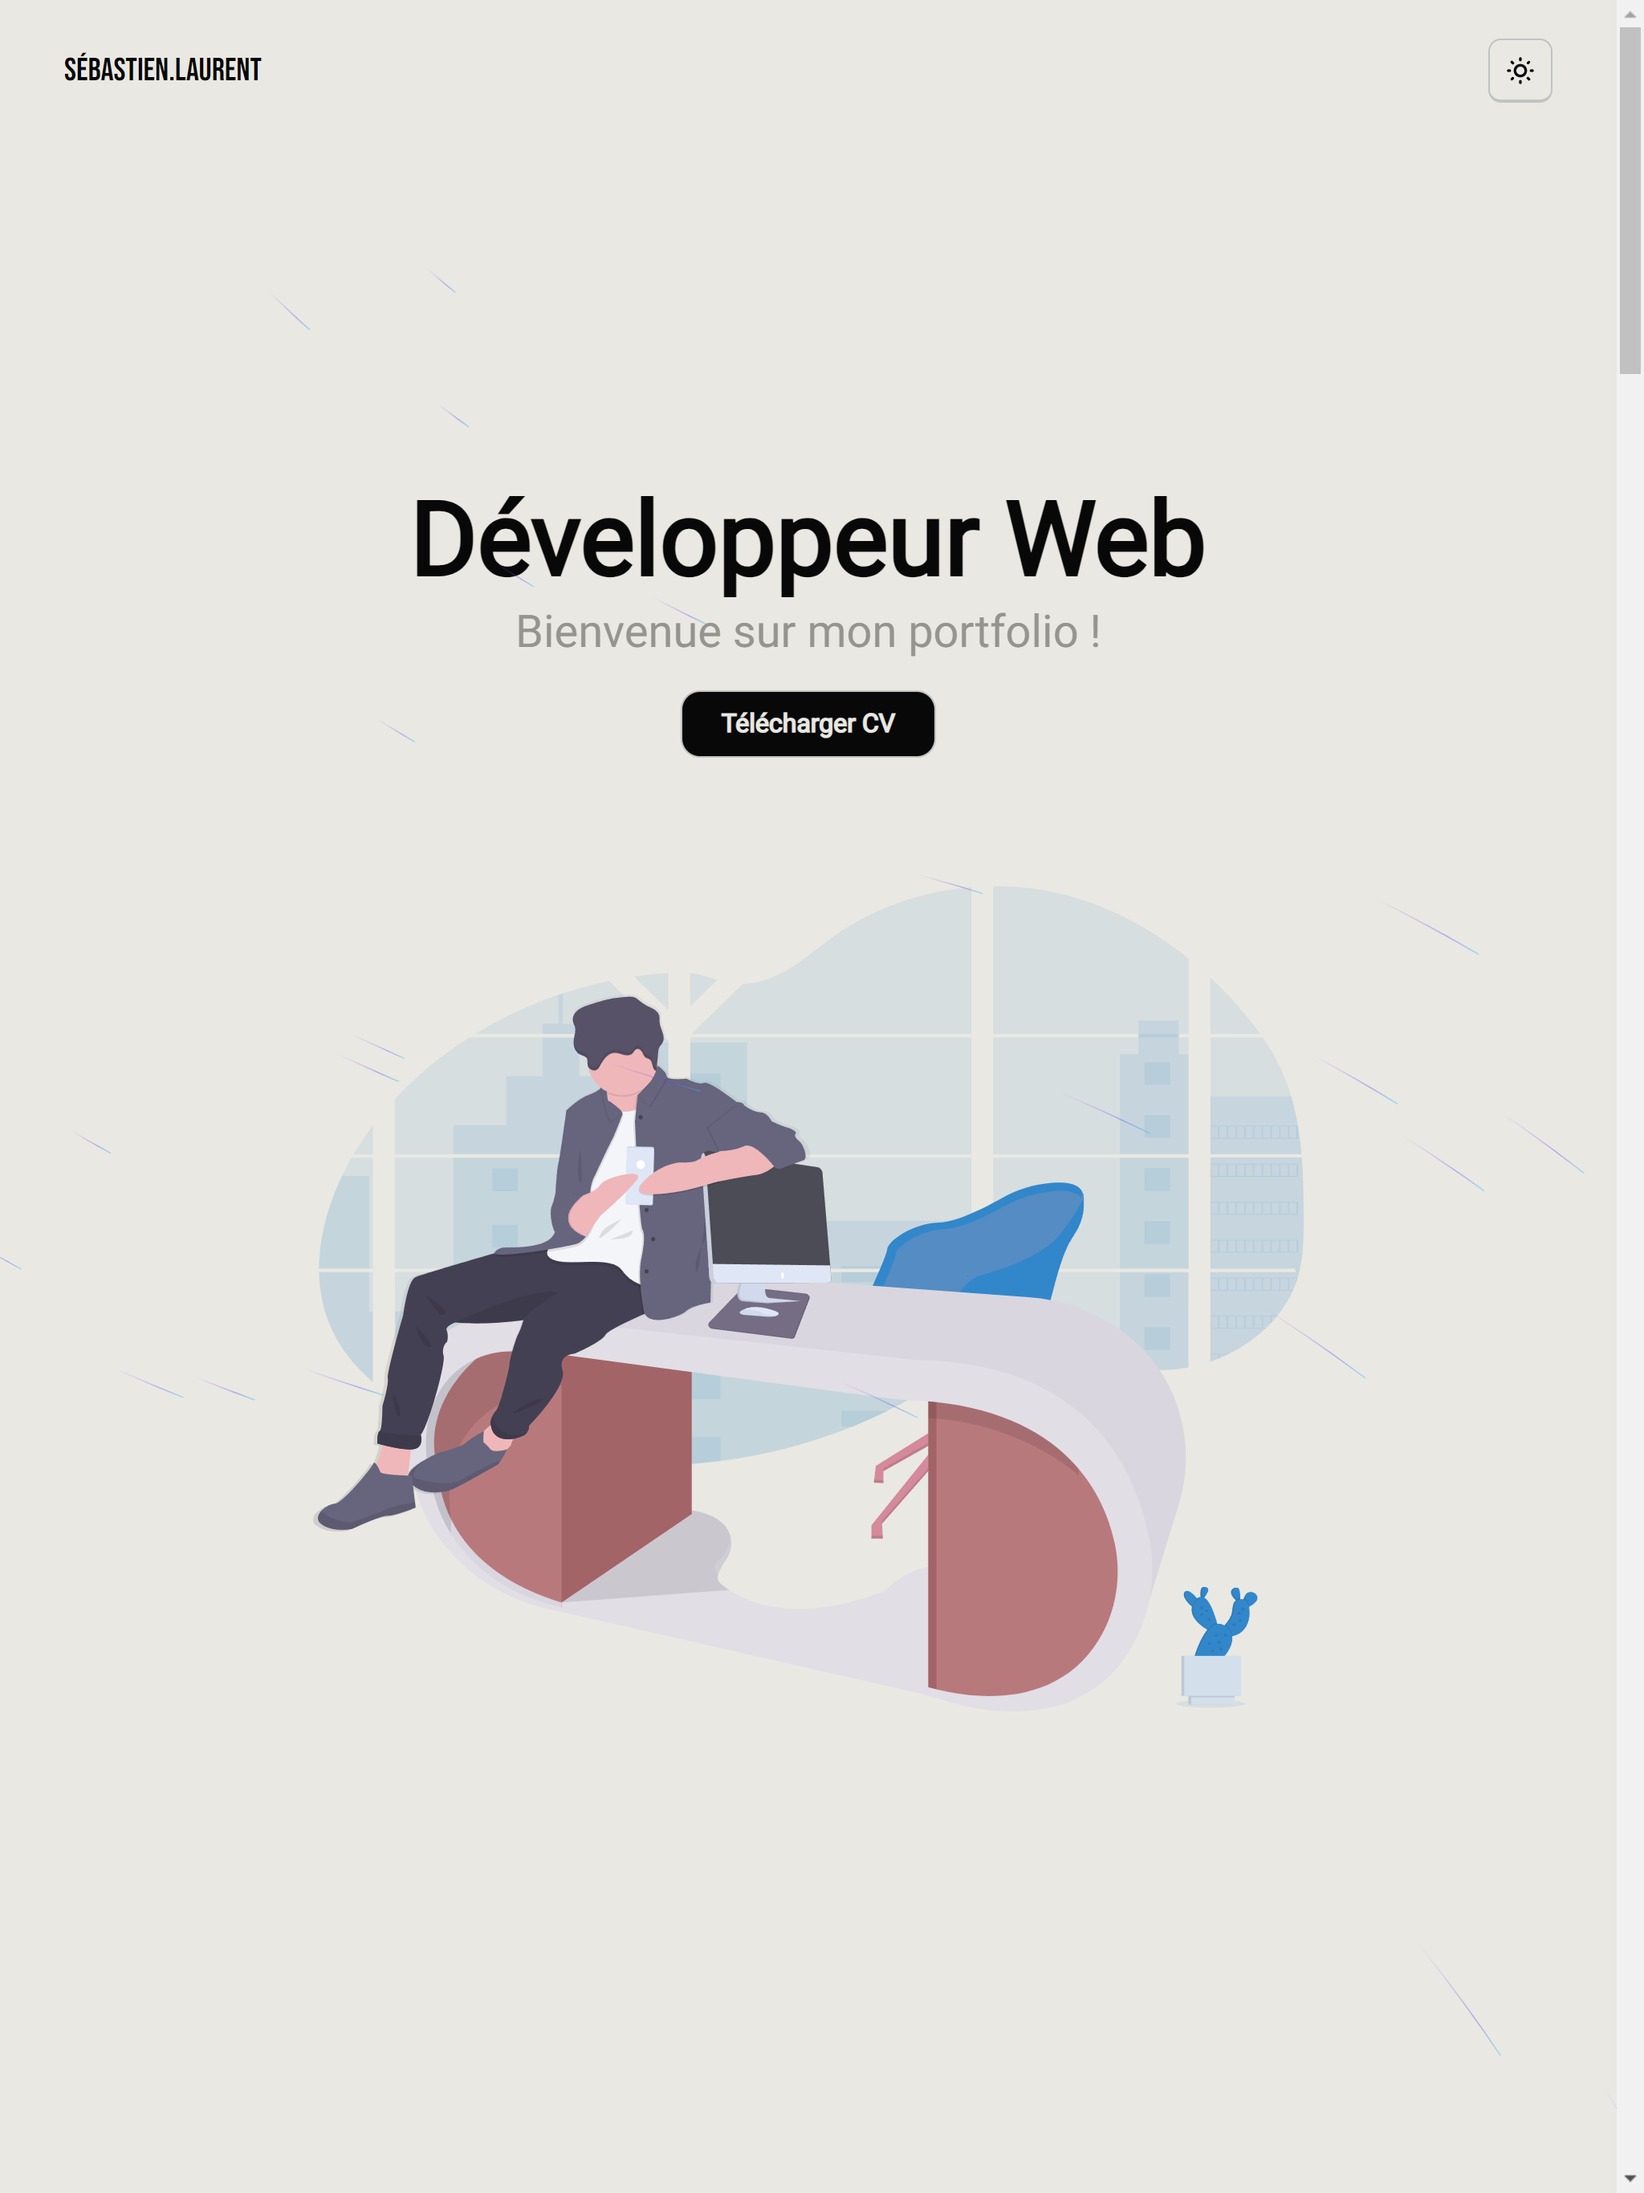
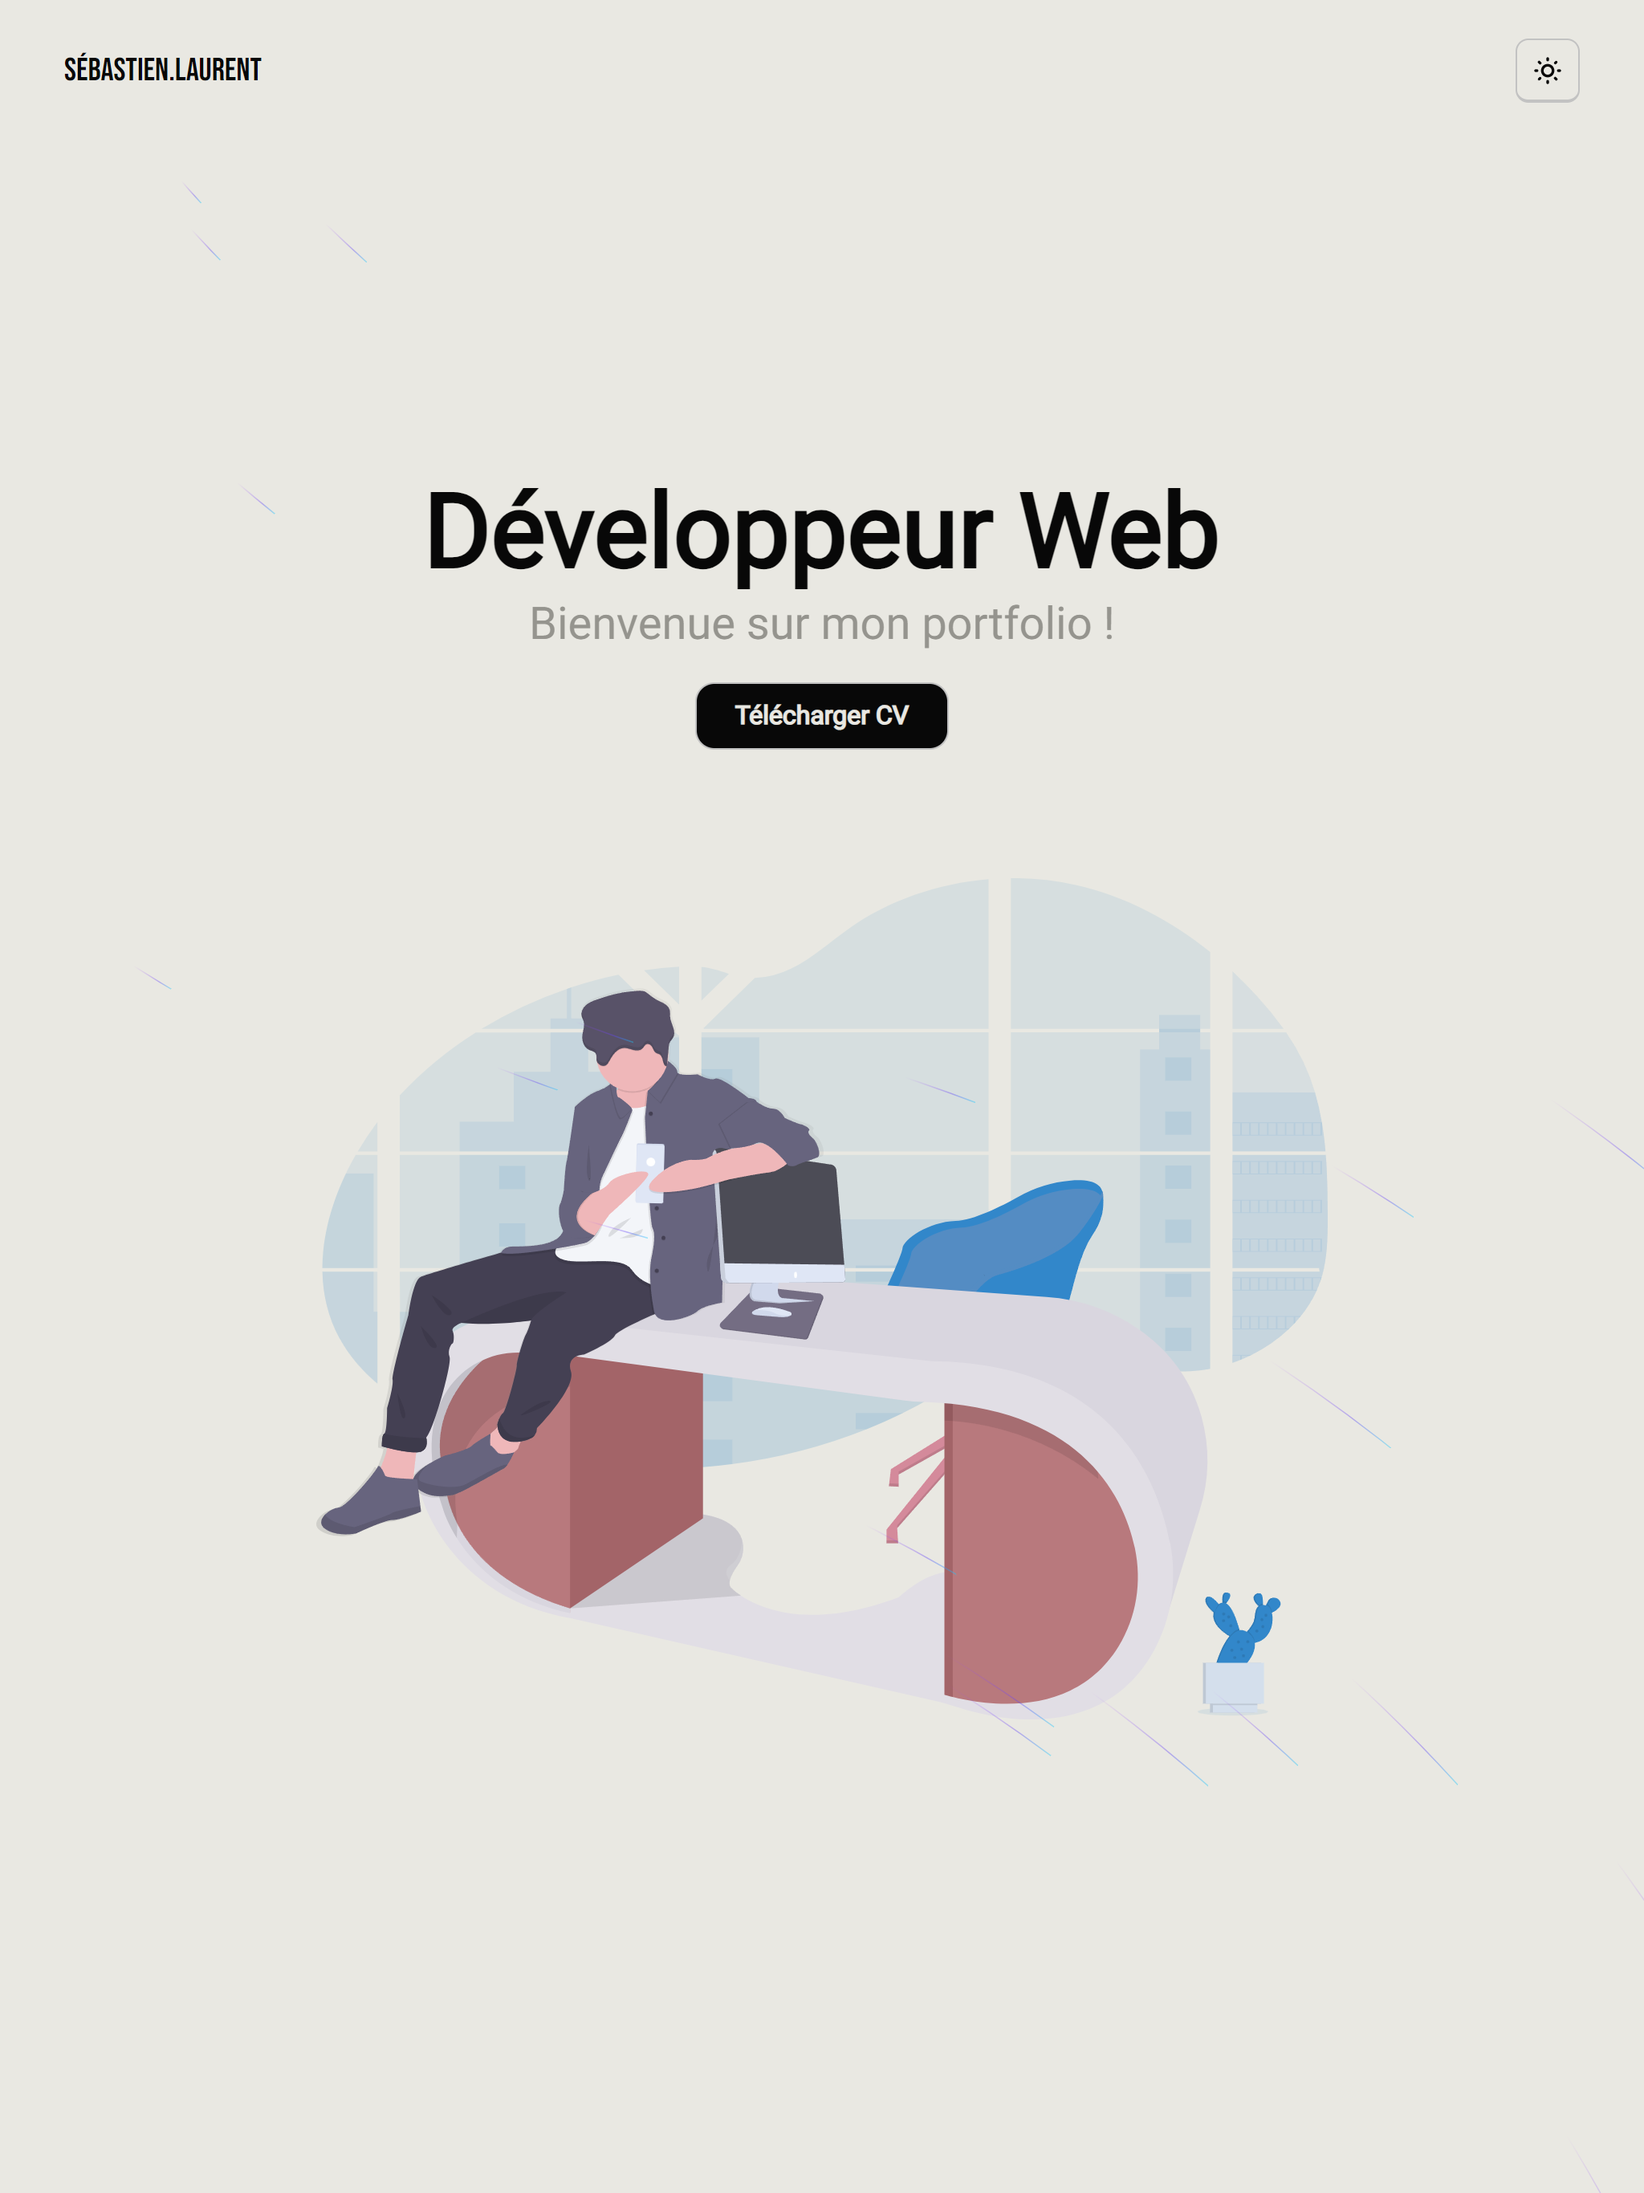
portfolio project img is light when theme is back and vice versa

diff --git a/components/LandingSections/Projets/Projets.tsx b/components/LandingSections/Projets/Projets.tsx
@@ -5,6 +5,7 @@ import SectionHeader from "@/components/SectionHeader/SectionHeader";
 import Codit from "../../../public/images/Codit.png";
 import Galopins from "../../../public/images/Galopins.png";
 import Portfolio from "../../../public/images/Portfolio.png";
+import PortfolioLight from "../../../public/images/PortfolioLight.png";
 import Stash from "../../../public/images/Stash.png";
 
 const Projets = () => {
@@ -47,6 +48,20 @@ const Projets = () => {
             projectStack="Next.Js • TypeScript • TailwindCSS"
             siteHref="https://sebastienlaurent.fr/"
             githubHref="https://github.com/SebastienLaurentt/Portfolio-V2"
+            classname="dark:hidden"
+          />
+            <ProjectCard
+            src={PortfolioLight}
+            alt="Impression d'écran de la page d'accueil de mon Portfolio"
+            rowReverse={true}
+            marginBottom={true}
+            projectDescription="Mon portfolio personnel."
+            projectTitle="Portfolio"
+            border={true}
+            projectStack="Next.Js • TypeScript • TailwindCSS"
+            siteHref="https://sebastienlaurent.fr/"
+            githubHref="https://github.com/SebastienLaurentt/Portfolio-V2"
+            classname="hidden dark:block"
           />
           <ProjectCard
             src={Codit}
